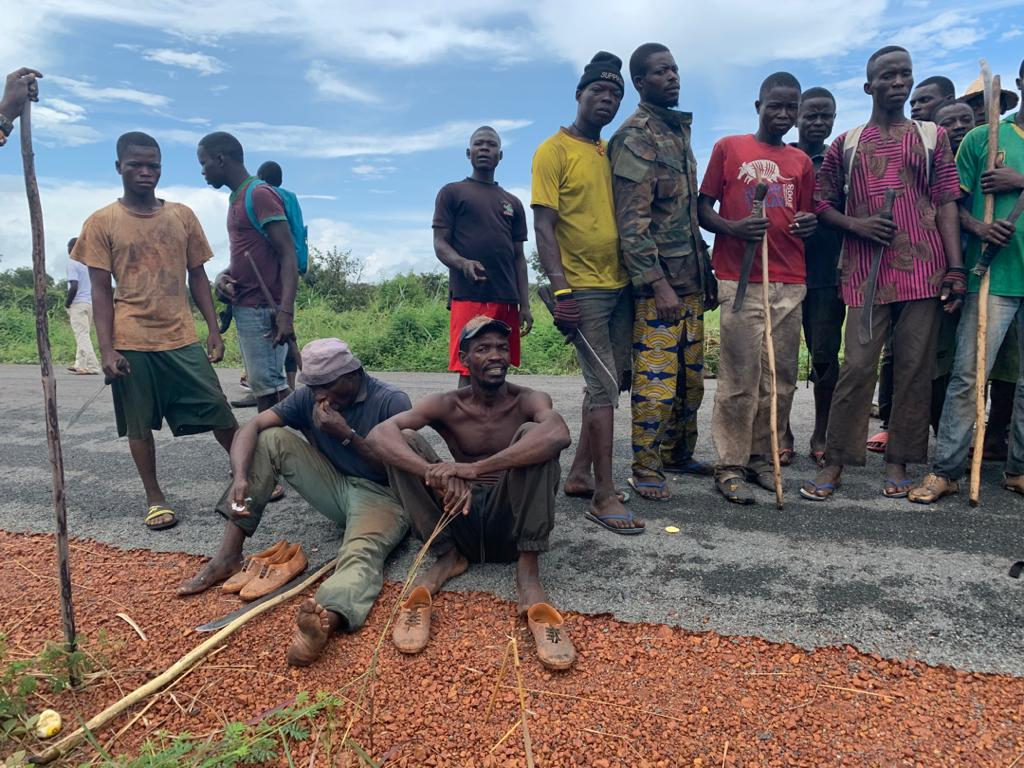
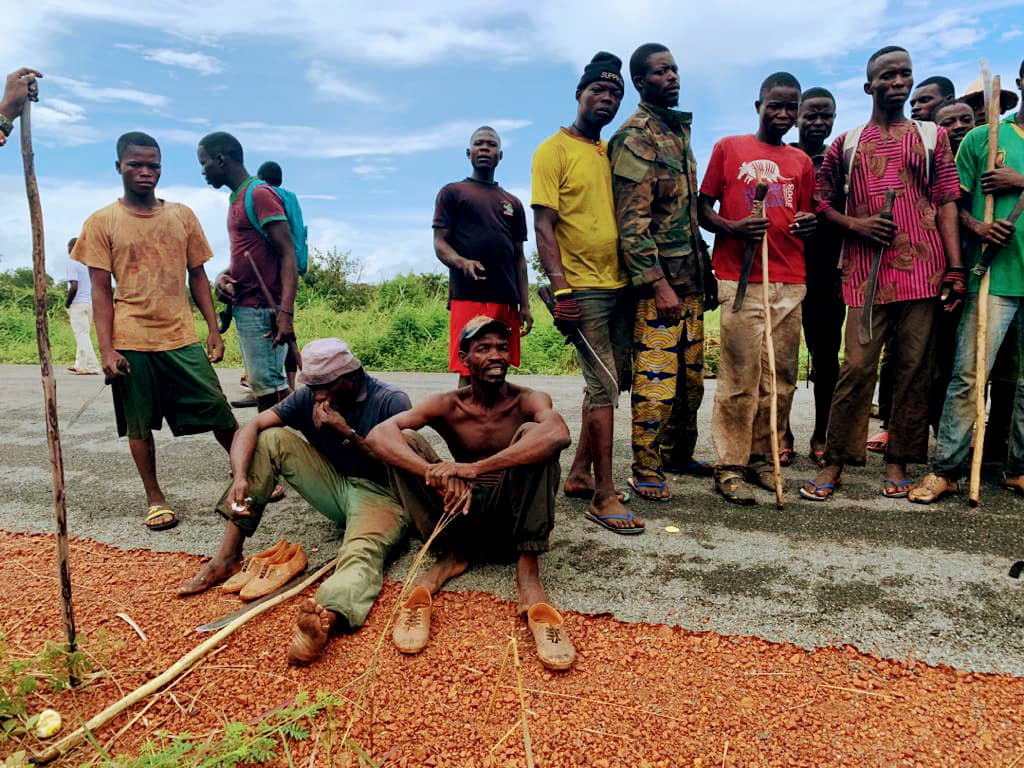
finalized the home page

diff --git a/index.html b/index.html
@@ -46,7 +46,7 @@
 	  </nav>
     <!-- END nav -->
     
-    <div class="hero-wrap" style="background-image: url('images/bg_1.jpg');" data-stellar-background-ratio="0.5">
+    <div class="hero-wrap" style="background-image: url('images/im1.jpeg');" data-stellar-background-ratio="0.5">
       <div class="overlay"></div>
       <div class="container">
         <div class="row no-gutters slider-text align-items-center justify-content-end" data-scrollax-parent="true">
